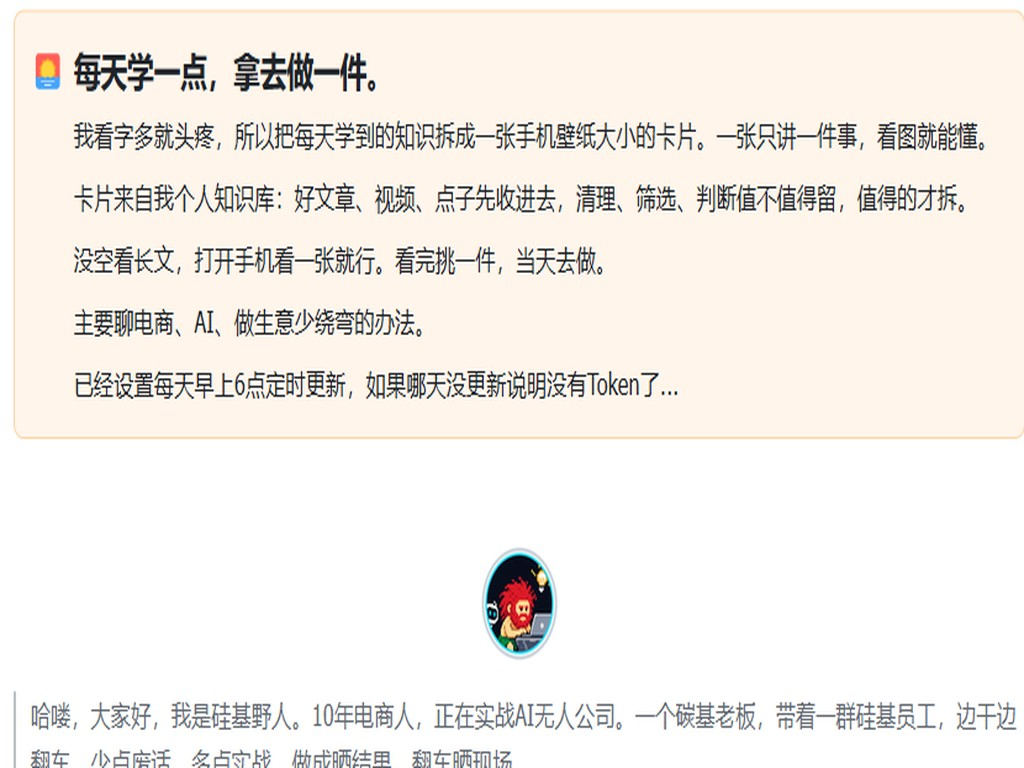
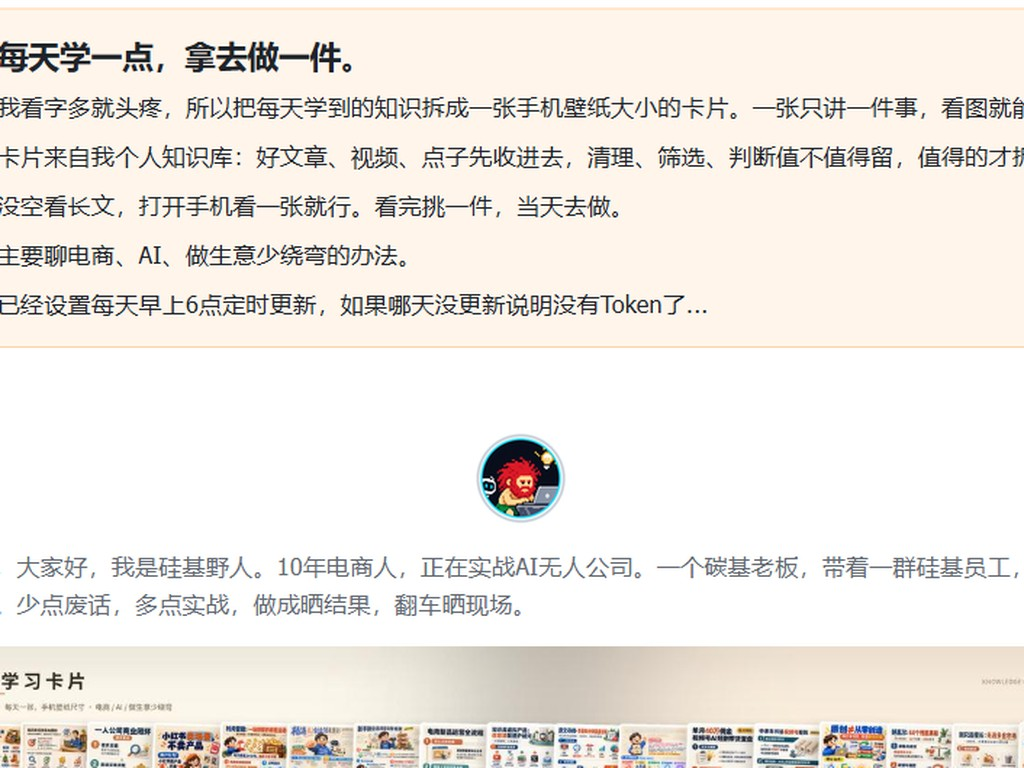
V30：每日拆卡图4:3不拉伸、情报汇聚图换最热仓库、Obsidian数据库95%、闪电说/八爪鱼官方图标、Chrome透明logo、平台设备图标、服务文案4项含课程、关于我时间线与迁徙路线更新

diff --git a/index.html b/index.html
@@ -124,10 +124,13 @@
   .tool-sub-head b { font-size:14.5px; color:#0f172a; }
   .tool-sub-head span { font-size:12px; color:#94a3b8; }
   .tool-group h4 { font-size:20px; color:#0f172a; margin:0 0 10px; font-weight:800; display:flex; align-items:center; gap:10px; }
-  .plat-badge { display:inline-flex; align-items:center; justify-content:center; font-size:12px; font-weight:800; color:#fff; padding:4px 10px; border-radius:999px; letter-spacing:.5px; }
-  .plat-badge.pc { background:#2563eb; }
-  .plat-badge.mobile { background:#0e9f6e; }
-  .plat-badge.watch { background:#7c3aed; }
+  .plat-ico { width:38px; height:38px; border-radius:11px; display:inline-flex; align-items:center; justify-content:center; flex:0 0 auto; }
+  .plat-ico svg { width:21px; height:21px; }
+  .plat-ico.pc { background:#e0edff; color:#2563eb; }
+  .plat-ico.mobile { background:#dcfce7; color:#0e9f6e; }
+  .plat-ico.watch { background:#ede9fe; color:#7c3aed; }
+  .plat-txt { font-size:20px; font-weight:800; color:#0f172a; }
+  .plat-sub { font-size:13.5px; font-weight:600; color:#64748b; }
   .tool-card.tool-shot { grid-column:1 / -1; align-items:center; padding:12px 14px; }
   .tool-card.tool-shot img.tshot { width:220px; height:96px; border-radius:10px; object-fit:cover; display:block; flex:0 0 auto; border:1px solid #e2e8f0; }
   .tool-card.tool-shot b { font-size:14px; }
@@ -136,7 +139,7 @@
   .tool-card img { width:34px; height:34px; border-radius:9px; display:block; flex:0 0 auto; }
   .tool-card b { display:block; font-size:12.5px; color:#0f172a; }
   .tool-card span { display:block; margin-top:2px; font-size:10.5px; color:#94a3b8; line-height:1.5; }
-  .svc-grid { display:grid; grid-template-columns:repeat(3,1fr); gap:16px; margin-top:24px; }
+  .svc-grid { display:grid; grid-template-columns:repeat(2,1fr); gap:16px; margin-top:24px; }
   .svc-card { border:1px solid var(--line); border-radius:14px; padding:18px 18px 16px; background:#fbfdff; }
   .svc-card b { font-size:14px; color:#0f172a; }
   .svc-card p { margin-top:8px; font-size:12.5px; color:#64748b; line-height:1.75; min-height:66px; }
@@ -688,7 +691,7 @@
           <div class="pp-thumbs">
             <button type="button" class="pp-th on" data-big="assets/intel-shot1.jpg" data-kind="browser" data-cap="重点情报" data-desc="首页这一列的重点"><img src="assets/intel-shot1.jpg" alt="主界面"><span>重点情报</span></button>
             <button type="button" class="pp-th" data-big="assets/intel-shot2.jpg" data-kind="browser" data-cap="关键词" data-desc="这一周情报在关注什么"><img src="assets/intel-shot2.jpg" alt="流水线"><span>关键词</span></button>
-            <button type="button" class="pp-th" data-big="assets/intel-shot3.jpg" data-kind="browser" data-cap="汇聚图" data-desc="万千信息汇成下一步"><img src="assets/intel-shot3.jpg" alt="数据面板"><span>汇聚图</span></button>
+            <button type="button" class="pp-th" data-big="assets/intel-shot3.jpg" data-kind="browser" data-cap="最热仓库" data-desc="GitHub 最近 30 天最热项目"><img src="assets/intel-shot3.jpg" alt="最热仓库"><span>最热仓库</span></button>
           </div>
         </div>
         <div class="pp-info">
@@ -751,8 +754,8 @@
     <div class="prog-list">
       <div class="prog-row"><div class="pr-name">电商运营系统</div><div class="pr-bar dev"><span style="width:60%"></span></div><em class="badge dev">开发中 60%</em></div>
       <div class="prog-row"><div class="pr-name">AI 个人工作台</div><div class="pr-bar dev"><span style="width:75%"></span></div><em class="badge dev">开发中 75%</em></div>
-      <div class="prog-row"><div class="pr-name">OpCity 数据库</div><div class="pr-bar dev"><span style="width:85%"></span></div><em class="badge dev">开发中 85%</em></div>
       <div class="prog-row"><div class="pr-name">AI 内容流水线</div><div class="pr-bar dev"><span style="width:85%"></span></div><em class="badge dev">开发中 85%</em></div>
+      <div class="prog-row"><div class="pr-name">Obsidian 数据库</div><div class="pr-bar dev"><span style="width:95%"></span></div><em class="badge dev">开发中 95%</em></div>
       <div class="prog-row"><div class="pr-name">飞书知识库</div><div class="pr-bar"><span style="width:100%"></span></div><em class="badge online">已上线</em></div>
       <div class="prog-row"><div class="pr-name">个人网页</div><div class="pr-bar"><span style="width:100%"></span></div><em class="badge online">已上线</em></div>
       <div class="prog-row"><div class="pr-name">高性价比人生指南</div><div class="pr-bar"><span style="width:100%"></span></div><em class="badge online">已上线</em></div>
@@ -910,16 +913,16 @@
     </div>
     <div class="tool-groups">
       <div class="tool-group">
-        <h4><span class="plat-badge pc">电脑</span>干活的地方</h4>
+        <h4><span class="plat-ico pc"><svg viewBox="0 0 24 24" fill="none" stroke="currentColor" stroke-width="1.8" stroke-linecap="round" stroke-linejoin="round"><rect x="2.5" y="4" width="19" height="12.5" rx="2"/><path d="M8 21h8M12 16.5V21"/></svg></span><span class="plat-txt">电脑端</span><span class="plat-sub">干活的地方</span></h4>
         <p class="tool-reason">按「AI 执行 → 图像视频 → 知识效率 → 采集电商 → 浏览器/系统/远程」排，从产出到环境。</p>
-        <div class="tool-sub"><div class="tool-sub-head"><b>AI Agent / 写代码</b><span>替我干活、写脚本、改工作台</span></div><div class="tools-grid"><div class="tool-card"><img src="assets/ftool-claudecode.png" alt="Claude Code"><div><b>Claude Code</b><span>长任务 / 复杂改代码</span></div></div><div class="tool-card"><img src="assets/ftool-codex.png" alt="Codex"><div><b>Codex</b><span>写代码 / 改工作台</span></div></div><div class="tool-card"><img src="assets/ftool-grok.png" alt="Grok Bot"><div><b>Grok Bot</b><span>看 X / 问 AI</span></div></div><div class="tool-card"><img src="assets/ftool-workbuddy.png" alt="WorkBuddy"><div><b>WorkBuddy</b><span>派活 / 对话式工作流</span></div></div><div class="tool-card"><img src="assets/ftool-deepseekharness.png" alt="DeepSeek Harness"><div><b>DeepSeek Harness</b><span>AI 干活 / 自动化</span></div></div><div class="tool-card"><img src="assets/ftool-hermes.png" alt="Hermes Agent"><div><b>Hermes Agent</b><span>长任务 / 多步执行</span></div></div></div></div><div class="tool-sub"><div class="tool-sub-head"><b>图像 / 视频</b><span>出图、出片、剪片</span></div><div class="tools-grid"><div class="tool-card"><img src="assets/ftool-comfyui.png" alt="ComfyUI"><div><b>ComfyUI</b><span>AI 绘图工作流</span></div></div><div class="tool-card"><img src="assets/ftool-jimeng.png" alt="即梦 / Seedance"><div><b>即梦 / Seedance</b><span>AI 视频画面</span></div></div><div class="tool-card"><img src="assets/ftool-nanobanana.png" alt="Nano Banana"><div><b>Nano Banana</b><span>图片生成 / 修图</span></div></div><div class="tool-card"><img src="assets/ftool-jianying.png" alt="剪映"><div><b>剪映</b><span>视频剪辑</span></div></div><div class="tool-card"><img src="assets/ftool-eagle.png" alt="Eagle"><div><b>Eagle</b><span>素材图管理</span></div></div></div></div><div class="tool-sub"><div class="tool-sub-head"><b>知识 / 效率</b><span>资料落盘、秒找、画结构</span></div><div class="tools-grid"><div class="tool-card"><img src="assets/ftool-obsidian.png" alt="Obsidian"><div><b>Obsidian</b><span>本地知识库 / 素材池</span></div></div><div class="tool-card"><img src="assets/ftool-notion.png" alt="Notion"><div><b>Notion</b><span>记录 / 数据库</span></div></div><div class="tool-card"><img src="assets/ftool-mindmanager.png" alt="MindManager"><div><b>MindManager</b><span>思维导图</span></div></div><div class="tool-card"><img src="assets/ftool-everything.png" alt="everything"><div><b>everything</b><span>文件秒搜</span></div></div><div class="tool-card tool-shot"><img class="tshot" src="assets/tool-shot-shandianshuo.jpg" alt="闪电说"><div><b>闪电说</b><span>语音输入</span></div></div></div></div><div class="tool-sub"><div class="tool-sub-head"><b>采集 / 电商</b><span>抓数据、存素材</span></div><div class="tools-grid"><div class="tool-card tool-shot"><img class="tshot" src="assets/tool-shot-octopus.jpg" alt="八爪鱼 RPA"><div><b>八爪鱼 RPA</b><span>网页采集</span></div></div><div class="tool-card"><img src="assets/ftool-baidupan.png" alt="百度网盘"><div><b>百度网盘</b><span>素材 / 备份</span></div></div></div></div><div class="tool-sub"><div class="tool-sub-head"><b>浏览器 / 系统 / 远程</b><span>环境、远程、备份</span></div><div class="tools-grid"><div class="tool-card"><img src="assets/ftool-chrome.png" alt="Chrome 浏览器"><div><b>Chrome 浏览器</b><span>网页 / 后台</span></div></div><div class="tool-card"><img src="assets/ftool-ego.png" alt="Ego (lite) 浏览器"><div><b>Ego (lite) 浏览器</b><span>自动化浏览器</span></div></div><div class="tool-card"><img src="assets/ftool-uuremote.png" alt="网易 UU 远程"><div><b>网易 UU 远程</b><span>远程电脑</span></div></div><div class="tool-card"><img src="assets/ftool-itab.png" alt="iTab 新标签页"><div><b>iTab 新标签页</b><span>浏览器起始页</span></div></div><div class="tool-card"><img src="assets/ftool-aomei.png" alt="傲梅备份"><div><b>傲梅备份</b><span>系统 / 数据备份</span></div></div></div></div>
+        <div class="tool-sub"><div class="tool-sub-head"><b>AI Agent / 写代码</b><span>替我干活、写脚本、改工作台</span></div><div class="tools-grid"><div class="tool-card"><img src="assets/ftool-claudecode.png" alt="Claude Code"><div><b>Claude Code</b><span>长任务 / 复杂改代码</span></div></div><div class="tool-card"><img src="assets/ftool-codex.png" alt="Codex"><div><b>Codex</b><span>写代码 / 改工作台</span></div></div><div class="tool-card"><img src="assets/ftool-grok.png" alt="Grok Bot"><div><b>Grok Bot</b><span>看 X / 问 AI</span></div></div><div class="tool-card"><img src="assets/ftool-workbuddy.png" alt="WorkBuddy"><div><b>WorkBuddy</b><span>派活 / 对话式工作流</span></div></div><div class="tool-card"><img src="assets/ftool-deepseekharness.png" alt="DeepSeek Harness"><div><b>DeepSeek Harness</b><span>AI 干活 / 自动化</span></div></div><div class="tool-card"><img src="assets/ftool-hermes.png" alt="Hermes Agent"><div><b>Hermes Agent</b><span>长任务 / 多步执行</span></div></div></div></div><div class="tool-sub"><div class="tool-sub-head"><b>图像 / 视频</b><span>出图、出片、剪片</span></div><div class="tools-grid"><div class="tool-card"><img src="assets/ftool-comfyui.png" alt="ComfyUI"><div><b>ComfyUI</b><span>AI 绘图工作流</span></div></div><div class="tool-card"><img src="assets/ftool-jimeng.png" alt="即梦 / Seedance"><div><b>即梦 / Seedance</b><span>AI 视频画面</span></div></div><div class="tool-card"><img src="assets/ftool-nanobanana.png" alt="Nano Banana"><div><b>Nano Banana</b><span>图片生成 / 修图</span></div></div><div class="tool-card"><img src="assets/ftool-jianying.png" alt="剪映"><div><b>剪映</b><span>视频剪辑</span></div></div><div class="tool-card"><img src="assets/ftool-eagle.png" alt="Eagle"><div><b>Eagle</b><span>素材图管理</span></div></div></div></div><div class="tool-sub"><div class="tool-sub-head"><b>知识 / 效率</b><span>资料落盘、秒找、画结构</span></div><div class="tools-grid"><div class="tool-card"><img src="assets/ftool-obsidian.png" alt="Obsidian"><div><b>Obsidian</b><span>本地知识库 / 素材池</span></div></div><div class="tool-card"><img src="assets/ftool-notion.png" alt="Notion"><div><b>Notion</b><span>记录 / 数据库</span></div></div><div class="tool-card"><img src="assets/ftool-mindmanager.png" alt="MindManager"><div><b>MindManager</b><span>思维导图</span></div></div><div class="tool-card"><img src="assets/ftool-everything.png" alt="everything"><div><b>everything</b><span>文件秒搜</span></div></div><div class="tool-card"><img src="assets/ftool-shandianshuo.png" alt="闪电说"><div><b>闪电说</b><span>语音输入</span></div></div></div></div><div class="tool-sub"><div class="tool-sub-head"><b>采集 / 电商</b><span>抓数据、存素材</span></div><div class="tools-grid"><div class="tool-card"><img src="assets/ftool-octopus.png" alt="八爪鱼 RPA"><div><b>八爪鱼 RPA</b><span>网页采集</span></div></div><div class="tool-card"><img src="assets/ftool-baidupan.png" alt="百度网盘"><div><b>百度网盘</b><span>素材 / 备份</span></div></div></div></div><div class="tool-sub"><div class="tool-sub-head"><b>浏览器 / 系统 / 远程</b><span>环境、远程、备份</span></div><div class="tools-grid"><div class="tool-card"><img src="assets/ftool-chrome.png" alt="Chrome 浏览器"><div><b>Chrome 浏览器</b><span>网页 / 后台</span></div></div><div class="tool-card"><img src="assets/ftool-ego.png" alt="Ego (lite) 浏览器"><div><b>Ego (lite) 浏览器</b><span>自动化浏览器</span></div></div><div class="tool-card"><img src="assets/ftool-uuremote.png" alt="网易 UU 远程"><div><b>网易 UU 远程</b><span>远程电脑</span></div></div><div class="tool-card"><img src="assets/ftool-itab.png" alt="iTab 新标签页"><div><b>iTab 新标签页</b><span>浏览器起始页</span></div></div><div class="tool-card"><img src="assets/ftool-aomei.png" alt="傲梅备份"><div><b>傲梅备份</b><span>系统 / 数据备份</span></div></div></div></div>
       </div>
       <div class="tool-group">
-        <h4><span class="plat-badge mobile">手机</span>随时看、派活</h4>
+        <h4><span class="plat-ico mobile"><svg viewBox="0 0 24 24" fill="none" stroke="currentColor" stroke-width="1.8" stroke-linecap="round" stroke-linejoin="round"><rect x="7" y="2.5" width="10" height="19" rx="2.5"/><path d="M11 18.5h2"/></svg></span><span class="plat-txt">手机端</span><span class="plat-sub">随时看、派活</span></h4>
         <div class="tools-grid"><div class="tool-card"><img src="assets/ftool-workbuddy_m.png" alt="WorkBuddy"><div><b>WorkBuddy</b><span>手机上派活</span></div></div><div class="tool-card"><img src="assets/ftool-grok_m.png" alt="Grok Bot"><div><b>Grok Bot</b><span>看 X 一手信息</span></div></div><div class="tool-card"><img src="assets/ftool-claude_m.png" alt="Claude"><div><b>Claude</b><span>手机上问 Claude</span></div></div><div class="tool-card"><img src="assets/ftool-codex_m.png" alt="Codex"><div><b>Codex</b><span>手机上查进度</span></div></div><div class="tool-card"><img src="assets/ftool-x.png" alt="X"><div><b>X</b><span>看海外一手消息</span></div></div><div class="tool-card"><img src="assets/ftool-youtube.png" alt="YouTube"><div><b>YouTube</b><span>学东西 / 看同行</span></div></div><div class="tool-card"><img src="assets/ftool-github.png" alt="GitHub"><div><b>GitHub</b><span>看开源 / 管仓库</span></div></div><div class="tool-card"><img src="assets/ftool-wubianji.png" alt="无边记 / 无边际"><div><b>无边记 / 无边际</b><span>白板 / 随手画</span></div></div><div class="tool-card"><img src="assets/ftool-notion_m.png" alt="Notion"><div><b>Notion</b><span>手机上看资料</span></div></div><div class="tool-card"><img src="assets/ftool-dida.png" alt="滴答清单"><div><b>滴答清单</b><span>待办 / 提醒</span></div></div><div class="tool-card"><img src="assets/ftool-grow.png" alt="GROW"><div><b>GROW</b><span>习惯打卡</span></div></div><div class="tool-card"><img src="assets/ftool-doubao.png" alt="豆包语音"><div><b>豆包语音</b><span>语音输入</span></div></div><div class="tool-card"><img src="assets/ftool-shortcuts.png" alt="快捷指令"><div><b>快捷指令</b><span>一键自动化</span></div></div><div class="tool-card"><img src="assets/ftool-dedao.png" alt="得到"><div><b>得到</b><span>听书 / 课程</span></div></div><div class="tool-card"><img src="assets/ftool-fanshu.png" alt="帆书"><div><b>帆书</b><span>听书</span></div></div><div class="tool-card"><img src="assets/ftool-podcast.png" alt="播客"><div><b>播客</b><span>听播客</span></div></div><div class="tool-card"><img src="assets/ftool-chrome_m.png" alt="Chrome 浏览器"><div><b>Chrome 浏览器</b><span>手机上查资料</span></div></div><div class="tool-card"><img src="assets/ftool-wacai.png" alt="挖财"><div><b>挖财</b><span>记账</span></div></div><div class="tool-card"><img src="assets/ftool-youzhiyouxing.png" alt="有知有行"><div><b>有知有行</b><span>投资学习</span></div></div></div>
       </div>
       <div class="tool-group">
-        <h4><span class="plat-badge watch">手表</span>抬手腕就看</h4>
+        <h4><span class="plat-ico watch"><svg viewBox="0 0 24 24" fill="none" stroke="currentColor" stroke-width="1.8" stroke-linecap="round" stroke-linejoin="round"><rect x="7" y="7" width="10" height="10" rx="2.5"/><path d="M9 3h6M9 21h6"/></svg></span><span class="plat-txt">手表端</span><span class="plat-sub">抬手腕就看</span></h4>
         <div class="tools-grid"><div class="tool-card"><img src="assets/ftool-dida_w.png" alt="滴答清单"><div><b>滴答清单</b><span>抬手腕看今日</span></div></div><div class="tool-card"><img src="assets/ftool-grow_w.png" alt="GROW"><div><b>GROW</b><span>打卡 / 圆环</span></div></div><div class="tool-card"><img src="assets/ftool-wechat.png" alt="微信"><div><b>微信</b><span>手表上回消息</span></div></div><div class="tool-card"><img src="assets/ftool-qianniu.png" alt="千牛"><div><b>千牛</b><span>订单 / 客服提醒</span></div></div></div>
       </div>
     </div>
@@ -931,12 +934,13 @@
     <div class="sec-head">
       <div class="eyebrow2">Services</div>
       <h2>我能帮你做什么</h2>
-      <p>都是从自己生意里长出来的活，不是纸上谈兵。</p>
+      <p>都是从自己生意里长出来的活，只接能落地、能算账的；电商老板和企业团队优先。</p>
     </div>
     <div class="svc-grid">
-      <div class="svc-card"><b>AI 工作台搭建</b><p>把你的流程拆开接上 AI，从选题、生产到发布，一个人干一个团队的活。</p><a href="#message">聊聊 →</a></div>
-      <div class="svc-card"><b>电商内容代运营</b><p>选品、主图、短视频、多平台发布，按结果交付，不卖课。</p><a href="#message">聊聊 →</a></div>
-      <div class="svc-card"><b>AI 短视频批量生产</b><p>脚本、剪辑、八平台分发，一条片子多个平台同步跑。</p><a href="#message">聊聊 →</a></div>
+      <div class="svc-card"><b>电商团队 AI 提效陪跑</b><p>上新慢、主图短视频做不过来、客服回不过来？先挑最痛的一个环节做样板，按省下的人天和产出算账，不做花架子。</p><a href="#message">聊聊 →</a></div>
+      <div class="svc-card"><b>AI 内容流水线搭建 + 培训</b><p>选题、脚本、拍摄、剪辑、八平台发布，搭一条能自动跑的流水线；交付流程、模板、提示词，团队照着就能干。</p><a href="#message">聊聊 →</a></div>
+      <div class="svc-card"><b>企业 AI 工作台 / 流程自动化</b><p>把表格、客服、投放、库存这些重复活拆开接成 Agent；老板少盯人，员工少做重复活，出错率也降下来。</p><a href="#message">聊聊 →</a></div>
+      <div class="svc-card"><b>电商 AI 课程 / 企业内训</b><p>从老板到运营都能上手的实操课：选品、内容、投放、AI 工具一条线讲透；也做团队内训和陪跑营。</p><a href="#message">聊聊 →</a></div>
     </div>
   </div>
 </section>
@@ -949,20 +953,20 @@
     </div>
     <div class="about-rich about-reverse">
       <div class="timeline-mini about-timeline">
-        <div class="tl-row"><b>1986</b><span>出生于湖南怀化一个小镇</span></div>
+        <div class="tl-row"><b>1986</b><span>出生于湖南一小镇</span></div>
         <div class="tl-row"><b>2005</b><span>坐绿皮火车去北京上学</span></div>
-        <div class="tl-row"><b>2008</b><span>网上卖手机充值卡、Q 币，还帮人远程修电脑</span></div>
+        <div class="tl-row"><b>2008</b><span>网上卖手机充值卡、Q 币、VIP 论坛会员，还帮人远程修电脑</span></div>
         <div class="tl-row"><b>2010</b><span>开个人工作室，帮人做网站、网络推广，游走在北京各个角落</span></div>
-        <div class="tl-row"><b>2014</b><span>结婚、当爸爸，同一年完成人生两件大事</span></div>
-        <div class="tl-row"><b>2015</b><span>去江苏东海做水晶饰品</span></div>
-        <div class="tl-row"><b>2016</b><span>搬到燕郊，女儿出生，家里多了个小甜心</span></div>
-        <div class="tl-row"><b>2017</b><span>卖春节用品和圣诞用品；燕郊的房子卖掉，拿到第一笔原始积累</span></div>
-        <div class="tl-row"><b>2018</b><span>正式搬家到浙江诸暨产业带</span></div>
-        <div class="tl-row"><b>2021</b><span>生意做大做强后，开始躺平</span></div>
-        <div class="tl-row"><b>2022</b><span>三十几岁开上大奔，感觉人生到达了巅峰</span></div>
-        <div class="tl-row"><b>2024</b><span>遇到变故，消沉了一阵，业绩腰斩；下半年开始用 AI</span></div>
-        <div class="tl-row"><b>2025</b><span>定居杭州；第一次坐游轮，出国去了日本、韩国</span></div>
-        <div class="tl-row"><b>2026</b><span>利用 AI 这次机会，把以前做不了的事情做成，再拼一把</span></div>
+        <div class="tl-row"><b>2014</b><span>结婚生子，完成人生两件大事</span></div>
+        <div class="tl-row"><b>2015</b><span>去江苏连云港东海县做水晶饰品生意</span></div>
+        <div class="tl-row"><b>2016</b><span>女儿出生，家里多了个甜心</span></div>
+        <div class="tl-row"><b>2017</b><span>卖掉燕郊的房子，开始卖春节和圣诞用品</span></div>
+        <div class="tl-row"><b>2018</b><span>搬家到浙江诸暨产业带，开始了卖袜子之旅</span></div>
+        <div class="tl-row"><b>2021</b><span>生意做大做强，渐渐开始躺平</span></div>
+        <div class="tl-row"><b>2022</b><span>手握大把现金流，开上大奔，感觉人生到达了巅峰</span></div>
+        <div class="tl-row"><b>2024</b><span>遇到变故，渐渐消沉，业绩腰斩；下半年开始接触 AI</span></div>
+        <div class="tl-row"><b>2025</b><span>定居杭州，第一次通过坐游轮出了趟国，去了韩国、日本</span></div>
+        <div class="tl-row"><b>2026</b><span>继续用 AI 把以前做不了的事做成，再拼一把</span></div>
       </div>
       
       <div class="about-visual">
@@ -1339,14 +1343,12 @@
 /* ---------- 关于我：迁徙路线动画 ---------- */
 (function(){
   var STOPS = [
-    { city: "怀化", year: "1986", desc: "出生于湖南怀化一个小镇", short: "出生", x: 52, y: 268 },
-    { city: "北京", year: "2005", desc: "坐绿皮火车来上学；2009 做网络运维；2010 个人工作室，帮人做网站、推广，游走北京各个角落", short: "上学 / 运维 / 工作室", x: 196, y: 58 },
-    { city: "燕郊", year: "2016", desc: "搬到燕郊，成家、女儿出生", short: "成家 / 女儿出生", x: 236, y: 92 },
-    { city: "东海", year: "2015", desc: "去江苏东海做水晶饰品", short: "做水晶饰品", x: 330, y: 168 },
-    { city: "辽源", year: "2018", desc: "去东北辽源做袜业", short: "做袜业", x: 340, y: 22 },
-    { city: "诸暨", year: "2019", desc: "进浙江诸暨袜业产业带（2018 年刚去）", short: "进产业带", x: 380, y: 264 },
-    { city: "长沙", year: "2020", desc: "定居长沙，长沙买房；一年只能回去 7 天", short: "定居 / 买房", x: 92, y: 236 },
-    { city: "杭州", year: "2025", desc: "定居杭州；第一次坐游轮，出国去了日本、韩国", short: "定居 / 游轮出国", x: 452, y: 222 }
+    { city: "湖南小镇", year: "1986", desc: "出生于湖南一小镇", short: "出生", x: 52, y: 268 },
+    { city: "北京", year: "2005", desc: "坐绿皮火车来上学；2010 个人工作室，帮人做网站、推广，游走北京各个角落", short: "上学 / 工作室", x: 196, y: 58 },
+    { city: "东海", year: "2015", desc: "去江苏连云港东海县做水晶饰品生意", short: "水晶饰品", x: 330, y: 168 },
+    { city: "燕郊", year: "2016", desc: "女儿出生；2017 卖掉燕郊的房子", short: "女儿出生 / 卖房", x: 236, y: 92 },
+    { city: "诸暨", year: "2018", desc: "搬家到浙江诸暨产业带，开始卖袜子", short: "卖袜子", x: 380, y: 264 },
+    { city: "杭州", year: "2025", desc: "定居杭州；第一次坐游轮，出国去了韩国、日本", short: "定居 / 游轮出国", x: 452, y: 222 }
   ];
   var svg = document.getElementById("migSvg");
   if (!svg) return;
